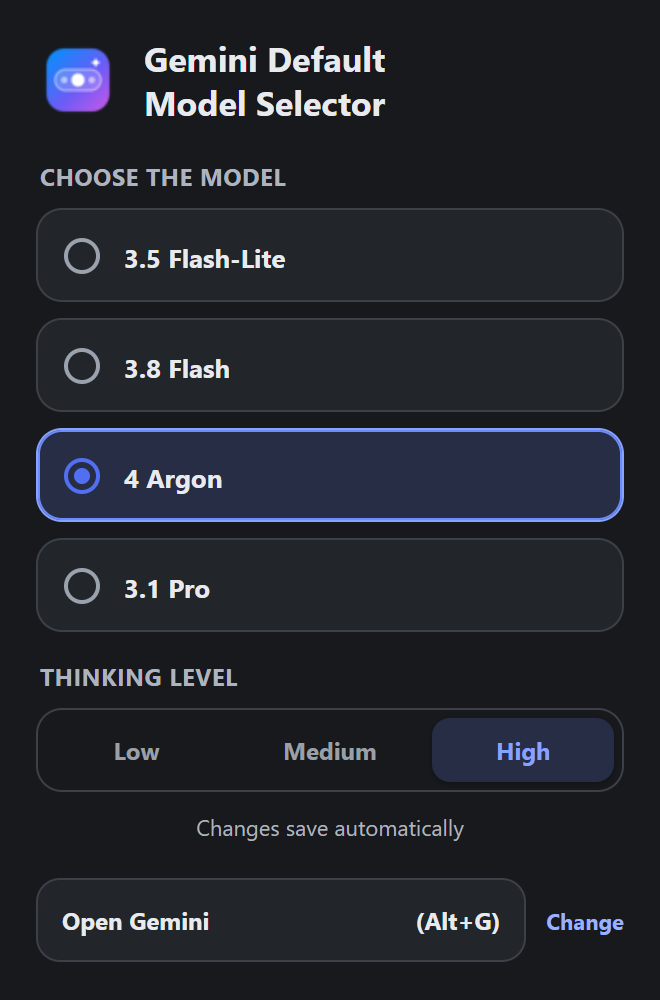
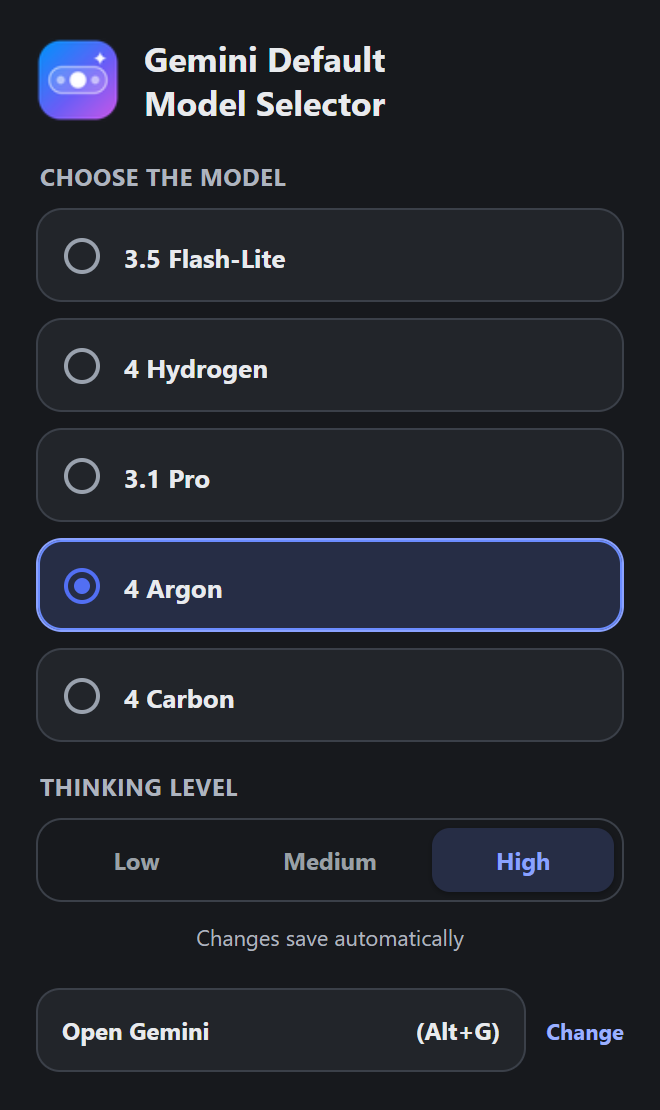
updated menu to 4 Hydrogen

diff --git a/tests/shared.test.js b/tests/shared.test.js
@@ -34,11 +34,11 @@ test("normalizes valid settings with thinkingLevel", () => {
 test("migrates legacy extendedThinking boolean to thinkingLevel", () => {
   assert.deepEqual(
     { ...core.normalizeSettings({ model: "flash-3.8", extendedThinking: false }) },
-    { model: "flash-3.8", thinkingLevel: "low", extendedThinking: false }
+    { model: "hydrogen-4", thinkingLevel: "low", extendedThinking: false }
   );
   assert.deepEqual(
     { ...core.normalizeSettings({ model: "flash-3.8", extendedThinking: true }) },
-    { model: "flash-3.8", thinkingLevel: "high", extendedThinking: true }
+    { model: "hydrogen-4", thinkingLevel: "high", extendedThinking: true }
   );
 });
 
@@ -153,7 +153,7 @@ test("migrates the former Flash model settings", () => {
         extendedThinking: false
       })
     },
-    { model: "flash-3.8", thinkingLevel: "low", extendedThinking: false }
+    { model: "hydrogen-4", thinkingLevel: "low", extendedThinking: false }
   );
   assert.deepEqual(
     {
@@ -162,7 +162,7 @@ test("migrates the former Flash model settings", () => {
         thinkingLevel: "high"
       })
     },
-    { model: "flash-3.8", thinkingLevel: "high", extendedThinking: true }
+    { model: "hydrogen-4", thinkingLevel: "high", extendedThinking: true }
   );
 });
 
@@ -183,6 +183,43 @@ test("resolves model with fallback when the newer model is not yet rolled out", 
     availableWith38.has(model.menuPrefix)
   );
   assert.equal(resolvedDirect?.id, "flash-3.8");
+});
+
+test("migrates all former Flash preferences to Hydrogen without changing thinking", () => {
+  for (const model of ["flash-3.6", "flash-3.7", "flash-3.8", "hydrogen-4"]) {
+    assert.deepEqual({ ...core.normalizeSettings({ model, thinkingLevel: "medium" }) },
+      { model: "hydrogen-4", thinkingLevel: "medium", extendedThinking: true });
+  }
+});
+
+test("recognizes Hydrogen picker labels without confusing other version 4 models", () => {
+  for (const label of ["4 Hydrogen", "Hydrogen", "Hydrogen Medium", "Hydrogen 4", "4 Hydrogen Высокая"]) {
+    assert.equal(core.inferPickerState(label).model, "hydrogen-4", label);
+  }
+  assert.equal(core.inferPickerState("Hydrogenated").model, null);
+  assert.equal(core.inferPickerState("4 Hydrogen and 4 Argon").ambiguous, true);
+  assert.equal(core.inferPickerState("Hydrogen and Flash").ambiguous, true);
+  assert.equal(core.matchesModelText("Everyday help 4 Hydrogen", "hydrogen-4"), true);
+});
+
+test("prefers Hydrogen then the newest available legacy Flash", () => {
+  for (const [available, expected] of [
+    [["hydrogen-4", "flash-3.8", "flash-3.7"], "hydrogen-4"],
+    [["flash-3.8", "flash-3.7"], "flash-3.8"],
+    [["flash-3.7"], "flash-3.7"],
+    [[], "hydrogen-4"]
+  ]) {
+    assert.equal(core.resolveModelWithFallback("hydrogen-4", (model) => available.includes(model.id)).id, expected);
+  }
+});
+
+test("excludes Hydrogen and legacy Flash rows from thinking options in a mixed menu", () => {
+  const options = [
+    { text: "Everyday help 4 Hydrogen" }, { text: "3.8 Flash All-around help" },
+    { text: "4 Argon Code & analysis" }, { text: "Low", followsSeparator: true },
+    { text: "Medium" }, { text: "High" }
+  ];
+  assert.equal(core.findThinkingOptionIndex(options, "medium"), 4);
 });
 
 test("finds thinking options independently of language in new 3-option UI", () => {

diff --git a/tests/content.test.js b/tests/content.test.js
@@ -38,6 +38,7 @@ function loadContent(options = {}) {
   let labels = options.labels || ["Низкая", "Средний", "Высокая"];
   const stored = options.stored || { model: "flash-3.8", thinkingLevel: "high" };
   const modelLabels = {
+    "hydrogen-4": "4 Hydrogen",
     "flash-lite-3.5": "3.5 Flash-Lite",
     "flash-3.8": "3.8 Flash",
     "flash-3.7": "3.7 Flash",
@@ -46,6 +47,7 @@ function loadContent(options = {}) {
     "carbon-4": "4 Carbon"
   };
   const modelDescriptions = {
+    "hydrogen-4": "Everyday help",
     "flash-lite-3.5": "Quick answers",
     "flash-3.8": "All-around help",
     "flash-3.7": "All-around help",
@@ -1420,6 +1422,46 @@ test("waits for an independently closing submenu before restoring focus", async 
 });
 
 const currentModels = ["flash-lite-3.5", "flash-3.8", "pro-3.1", "argon-4", "carbon-4"];
+
+const hydrogenModels = ["flash-lite-3.5", "hydrogen-4", "pro-3.1", "argon-4", "carbon-4"];
+
+for (const availableModels of [hydrogenModels, [...hydrogenModels, "flash-3.8"]]) {
+  for (const target of hydrogenModels) {
+    test(`selects ${target} with ${availableModels.includes("flash-3.8") ? "mixed Hydrogen/Flash" : "Hydrogen"} menu`, async () => {
+      const page = loadContent({ descriptionFirst: true, noModelIds: true, noControls: true,
+        noMenuTestId: true, unrelatedMenu: true, nestedThinking: true, shortPickerLabels: true,
+        availableModels, initialModel: target === "hydrogen-4" ? "pro-3.1" : "hydrogen-4",
+        initialLevel: "low", resetThinkingOnModelChange: true,
+        stored: { model: target, thinkingLevel: "medium" } });
+      await page.start();
+      assert.deepEqual(page.errors, []);
+      assert.deepEqual(page.state(), { model: target, level: "medium", menuOpen: false });
+      assert.deepEqual(page.clicks, ["picker", target, "picker", "thinking-submenu", "medium"]);
+    });
+  }
+}
+
+for (const fallback of ["flash-3.8", "flash-3.7"]) {
+  test(`Hydrogen falls back to ${fallback} in legacy menus`, async () => {
+    const page = loadContent({ initialModel: "pro-3.1", initialLevel: "high", nestedThinking: true,
+      availableModels: ["pro-3.1", fallback], resetThinkingOnModelChange: true,
+      stored: { model: "hydrogen-4", thinkingLevel: "medium" } });
+    await page.start();
+    assert.deepEqual(page.errors, []);
+    assert.deepEqual(page.state(), { model: fallback, level: "medium", menuOpen: false });
+    assert.deepEqual(page.clicks, ["picker", fallback, "picker", "thinking-submenu", "medium"]);
+  });
+}
+
+test("a saved Flash preference selects Hydrogen when both models exist", async () => {
+  const page = loadContent({ initialModel: "flash-3.8", initialLevel: "medium", nestedThinking: true,
+    shortPickerLabels: true, availableModels: [...hydrogenModels, "flash-3.8"],
+    stored: { model: "flash-3.8", thinkingLevel: "medium" } });
+  await page.start();
+  assert.deepEqual(page.errors, []);
+  assert.deepEqual(page.state(), { model: "hydrogen-4", level: "medium", menuOpen: false });
+  assert.equal(page.clicks.filter((value) => value === "hydrogen-4").length, 1);
+});
 
 for (const target of currentModels) {
   test(`selects ${target} in the five-model menu with descriptions before model names`, async () => {

diff --git a/tests/popup.test.js b/tests/popup.test.js
@@ -252,7 +252,7 @@ test("loads the Carbon model and preserves the popup model order", () => {
   const { models } = createPopupMock({ model: "carbon-4" });
   assert.deepEqual(
     models.map((model) => model.value),
-    ["flash-lite-3.5", "flash-3.8", "pro-3.1", "argon-4", "carbon-4"]
+    ["flash-lite-3.5", "hydrogen-4", "pro-3.1", "argon-4", "carbon-4"]
   );
   assert.equal(models.find((model) => model.value === "carbon-4")?.checked, true);
 });
@@ -265,7 +265,24 @@ test("migrates a disabled legacy preference when the popup loads", () => {
 test("loads defaults when storage is empty", () => {
   const mock = createPopupMock();
   assert.equal(mock.thinkings.find((item) => item.checked).value, "high");
-  assert.equal(mock.models.find((item) => item.checked).value, "flash-3.8");
+  assert.equal(mock.models.find((item) => item.checked).value, "hydrogen-4");
+});
+
+test("shows Hydrogen for saved Flash preferences without exposing legacy models", () => {
+  for (const model of ["flash-3.6", "flash-3.7", "flash-3.8", "hydrogen-4"]) {
+    const mock = createPopupMock({ model, thinkingLevel: "medium" });
+    assert.equal(mock.models.find((item) => item.checked)?.value, "hydrogen-4");
+    assert.equal(mock.models.some((item) => ["flash-3.7", "flash-3.8"].includes(item.value)), false);
+    assert.equal(mock.thinkings.find((item) => item.checked)?.value, "medium");
+  }
+});
+
+test("saves Hydrogen when selected in the popup", async () => {
+  const mock = createPopupMock({ model: "argon-4", thinkingLevel: "medium" });
+  mock.models.forEach((item) => (item.checked = item.value === "hydrogen-4"));
+  mock.panel.trigger("change");
+  await waitFor(() => mock.status.textContent === "Saved");
+  assert.equal(mock.runtimeSent[0].settings.model, "hydrogen-4");
 });
 
 test("sends the selected thinkingLevel to the worker", async () => {

diff --git a/shared.js b/shared.js
@@ -9,6 +9,13 @@
       menuPrefix: "3.5 Flash-Lite"
     }),
     Object.freeze({
+      id: "hydrogen-4",
+      label: "4 Hydrogen",
+      description: "Everyday help",
+      menuPrefix: "4 Hydrogen",
+      fallbackId: "flash-3.8"
+    }),
+    Object.freeze({
       id: "flash-3.8",
       label: "3.8 Flash",
       description: "All-around help",
@@ -45,7 +52,7 @@
   const STORAGE_KEYS = Object.freeze(["model", "thinkingLevel", "extendedThinking"]);
 
   const DEFAULT_SETTINGS = Object.freeze({
-    model: "flash-3.8",
+    model: "hydrogen-4",
     thinkingLevel: "high",
     extendedThinking: true
   });
@@ -55,8 +62,8 @@
   function normalizeSettings(value) {
     const candidate = value && typeof value === "object" ? value : {};
     let model = candidate.model;
-    if (model === "flash-3.6" || model === "flash-3.7") {
-      model = "flash-3.8";
+    if (["flash-3.6", "flash-3.7", "flash-3.8"].includes(model)) {
+      model = "hydrogen-4";
     }
 
     let thinkingLevel = candidate.thinkingLevel;
@@ -119,6 +126,7 @@
     for (const [phrase, modelId] of [
       ["Flash-Lite", "flash-lite-3.5"],
       ["Pro", "pro-3.1"],
+      ["Hydrogen", "hydrogen-4"],
       ["Argon", "argon-4"],
       ["Carbon", "carbon-4"]
     ]) {
@@ -158,14 +166,11 @@
     if (!target) {
       return null;
     }
-    if (typeof isAvailable !== "function" || isAvailable(target)) {
+    if (typeof isAvailable !== "function") {
       return target;
     }
-    if (target.fallbackId) {
-      const fallback = getModel(target.fallbackId);
-      if (fallback && isAvailable(fallback)) {
-        return fallback;
-      }
+    for (let candidate = target; candidate; candidate = getModel(candidate.fallbackId)) {
+      if (isAvailable(candidate)) return candidate;
     }
     return target;
   }

diff --git a/tests/background.test.js b/tests/background.test.js
@@ -175,7 +175,7 @@ test("opens Gemini with defaults when storage is empty", async () => {
   const { calls, messageListener } = loadBackground({});
   await sendRuntimeMessage(messageListener, { type: "GEMINI_OPEN_NEW_TAB" });
   const settings = calls.find(([name]) => name === "sendMessage")[2].settings;
-  assert.deepEqual(toPlain(settings), { model: "flash-3.8", thinkingLevel: "high", extendedThinking: true });
+  assert.deepEqual(toPlain(settings), { model: "hydrogen-4", thinkingLevel: "high", extendedThinking: true });
 });
 
 test("saves normalized popup settings and applies them to the active tab", async () => {
@@ -187,7 +187,7 @@ test("saves normalized popup settings and applies them to the active tab", async
 
   assert.deepEqual(toPlain(response), { ok: true, applied: true, saved: true });
   assert.deepEqual(toPlain(mock.getStored()), {
-    model: "flash-3.8", thinkingLevel: "medium", extendedThinking: true
+    model: "hydrogen-4", thinkingLevel: "medium", extendedThinking: true
   });
   const applied = mock.calls.find(([name]) => name === "sendMessage");
   assert.equal(applied[1], 101);

diff --git a/content.js b/content.js
@@ -412,11 +412,11 @@
   }
 
   function findModelOption(items, model) {
-    const item = findMenuItem(items, model);
-    if (item) return { item, model };
-    const fallback = core.getModel(model.fallbackId);
-    const fallbackItem = fallback && findMenuItem(items, fallback);
-    return fallbackItem ? { item: fallbackItem, model: fallback } : null;
+    const effectiveModel = core.resolveModelWithFallback(model.id, (candidate) =>
+      Boolean(findMenuItem(items, candidate))
+    );
+    const item = effectiveModel && findMenuItem(items, effectiveModel);
+    return item ? { item, model: effectiveModel } : null;
   }
 
   function readMenuItemSelected(item) {

diff --git a/popup.html b/popup.html
@@ -32,10 +32,10 @@
           </span>
         </label>
         <label class="model-option">
-          <input type="radio" name="model" value="flash-3.8">
+          <input type="radio" name="model" value="hydrogen-4">
           <span class="radio-indicator" aria-hidden="true"></span>
           <span class="model-copy">
-            <strong>3.8 Flash</strong>
+            <strong>4 Hydrogen</strong>
           </span>
         </label>
         <label class="model-option">

diff --git a/assets/store/source/render-store-images.py b/assets/store/source/render-store-images.py
@@ -76,7 +76,7 @@ def main():
     with sync_playwright() as playwright:
         browser = playwright.chromium.launch(executable_path=find_browser(), headless=True)
         try:
-            for theme, model in (("light", "flash-3.8"), ("dark", "argon-4")):
+            for theme, model in (("light", "hydrogen-4"), ("dark", "argon-4")):
                 size = capture_popup(browser, theme, model)
                 print(f"Popup {theme}: {size[0]} x {size[1]}")
             for source_name, output_name in (

diff --git a/README.md b/README.md
@@ -4,13 +4,13 @@
 
 ## Возможности
 
-- выбор `3.5 Flash-Lite`, `3.8 Flash`, `3.1 Pro`, `4 Argon` или `4 Carbon`;
+- выбор `3.5 Flash-Lite`, `4 Hydrogen`, `3.1 Pro`, `4 Argon` или `4 Carbon`;
 - поддержка нового меню с описанием перед названием модели и прежнего порядка подписей;
 - точное распознавание названий моделей без совпадений с Profile, Prompt и похожими словами;
 - поиск переключателя рядом с полем ввода и отказ от выбора при неоднозначности;
 - приоритет связанного или точно обозначенного меню Gemini перед эвристическим поиском;
 - недоступные на аккаунте модели с замком или признаком блокировки не нажимаются; popup сообщает об ограничении и предлагает выбрать другую модель;
-- автоматический фоллбэк на `3.7 Flash`, если Google ещё постепенно раскатывает `3.8 Flash` и он пока недоступен в интерфейсе;
+- внутренний фоллбэк для `4 Hydrogen`: сначала `3.8 Flash`, затем `3.7 Flash`, если предыдущей модели нет в меню; сохранённый выбор прежнего Flash автоматически переносится на Hydrogen;
 - выбор одного из трёх уровней мышления;
 - поддержка вложенного меню уровней мышления: открытие кликом или наведением, без повторного открытия для проверки результата;
 - совместимость со старым переключателем `Extended thinking`: `Low` выключает его, `Medium` и `High` включают;

diff --git a/STORE_LISTING.md b/STORE_LISTING.md
@@ -16,10 +16,10 @@ Gemini Default Model Selector automatically applies your saved preferences when 
 
 ✨ FEATURES
 
-- Choose 3.5 Flash-Lite, 3.8 Flash, 3.1 Pro, 4 Argon, or 4 Carbon.
+- Choose 3.5 Flash-Lite, 4 Hydrogen, 3.1 Pro, 4 Argon, or 4 Carbon.
 - Support both the new description-first model menu and the previous layout.
 - Skip account-locked model options and report when your preferred model is unavailable.
-- Graceful fallback to 3.7 Flash while Google progressively rolls out 3.8 Flash.
+- Automatically migrate saved Flash preferences to Hydrogen, with fallback to 3.8 Flash, then 3.7 Flash, if the newer model is absent from the menu.
 - Save a Low, Medium, or High thinking level independently of Gemini's interface language.
 - Support nested thinking menus opened by click or hover, keeping the same fast selection check.
 - Support the legacy Extended thinking toggle: Low disables it; Medium and High enable it.
@@ -60,7 +60,7 @@ Editable SVG sources for the icon and screenshots are included under `assets/ico
 
 To regenerate all transparent icon sizes (16, 32, 48, and 128 px) from the SVG, run `python assets/icons/render-icons.py`. The script also updates the icon copies used by the screenshot sources.
 
-Both screenshots show the current extension popup, rendered directly from `popup.html`, `popup.css`, and `popup.js`: light theme with Flash selected, and dark theme with Argon selected. The promotional image and icon do not depend on the model list.
+Both screenshots show the current extension popup, rendered directly from `popup.html`, `popup.css`, and `popup.js`: light theme with Hydrogen selected, and dark theme with Argon selected. The promotional image and icon do not depend on the model list.
 
 To regenerate the screenshots after changing the popup, run:
 
